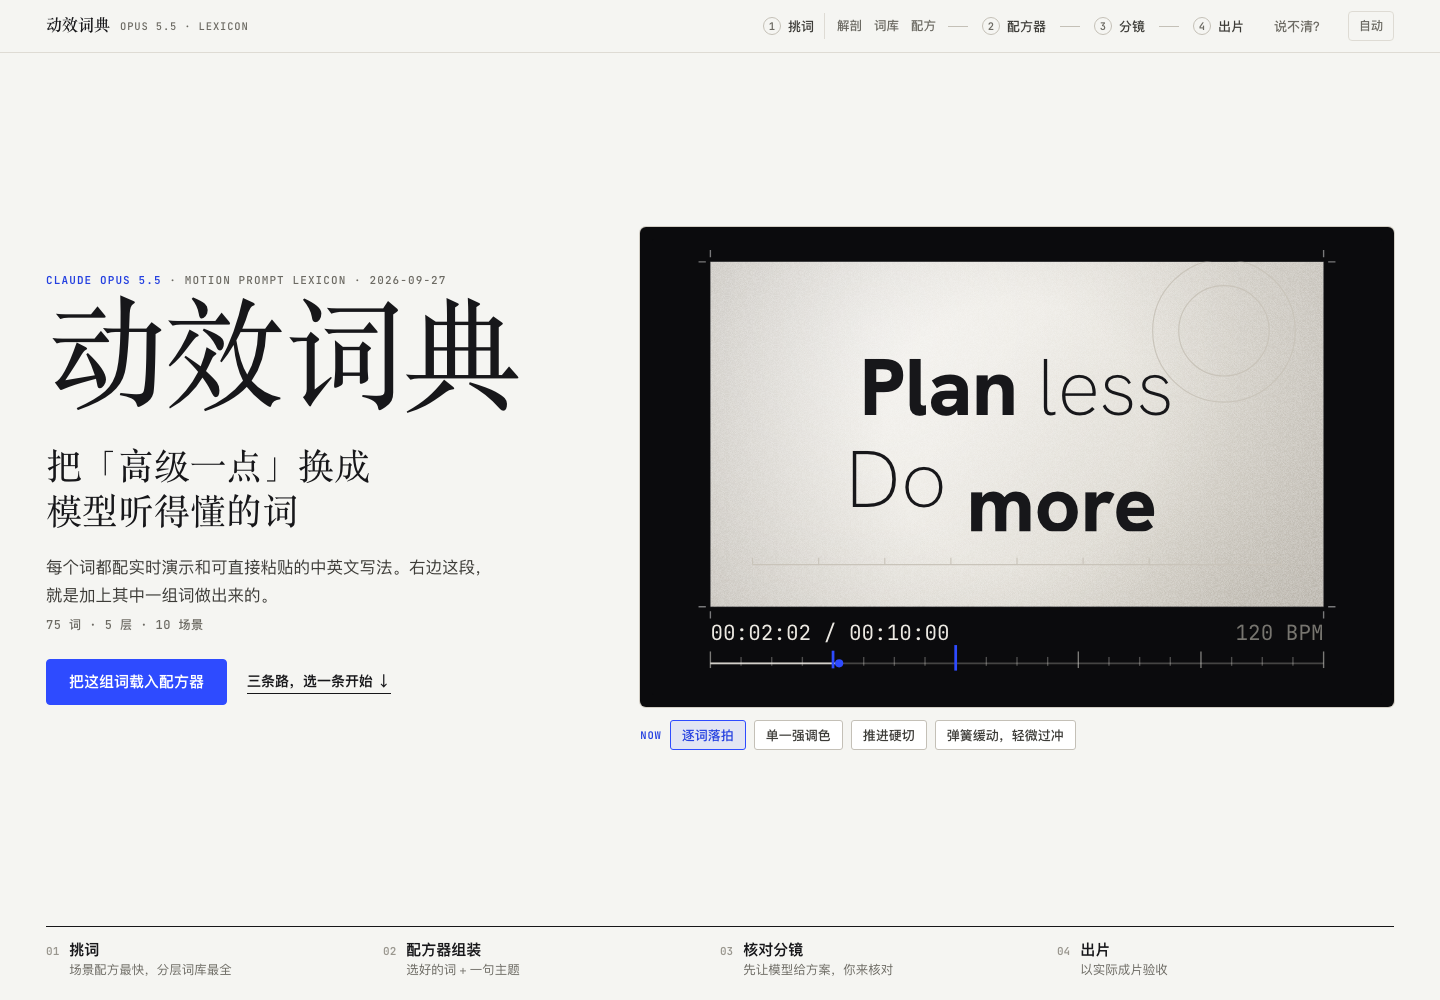
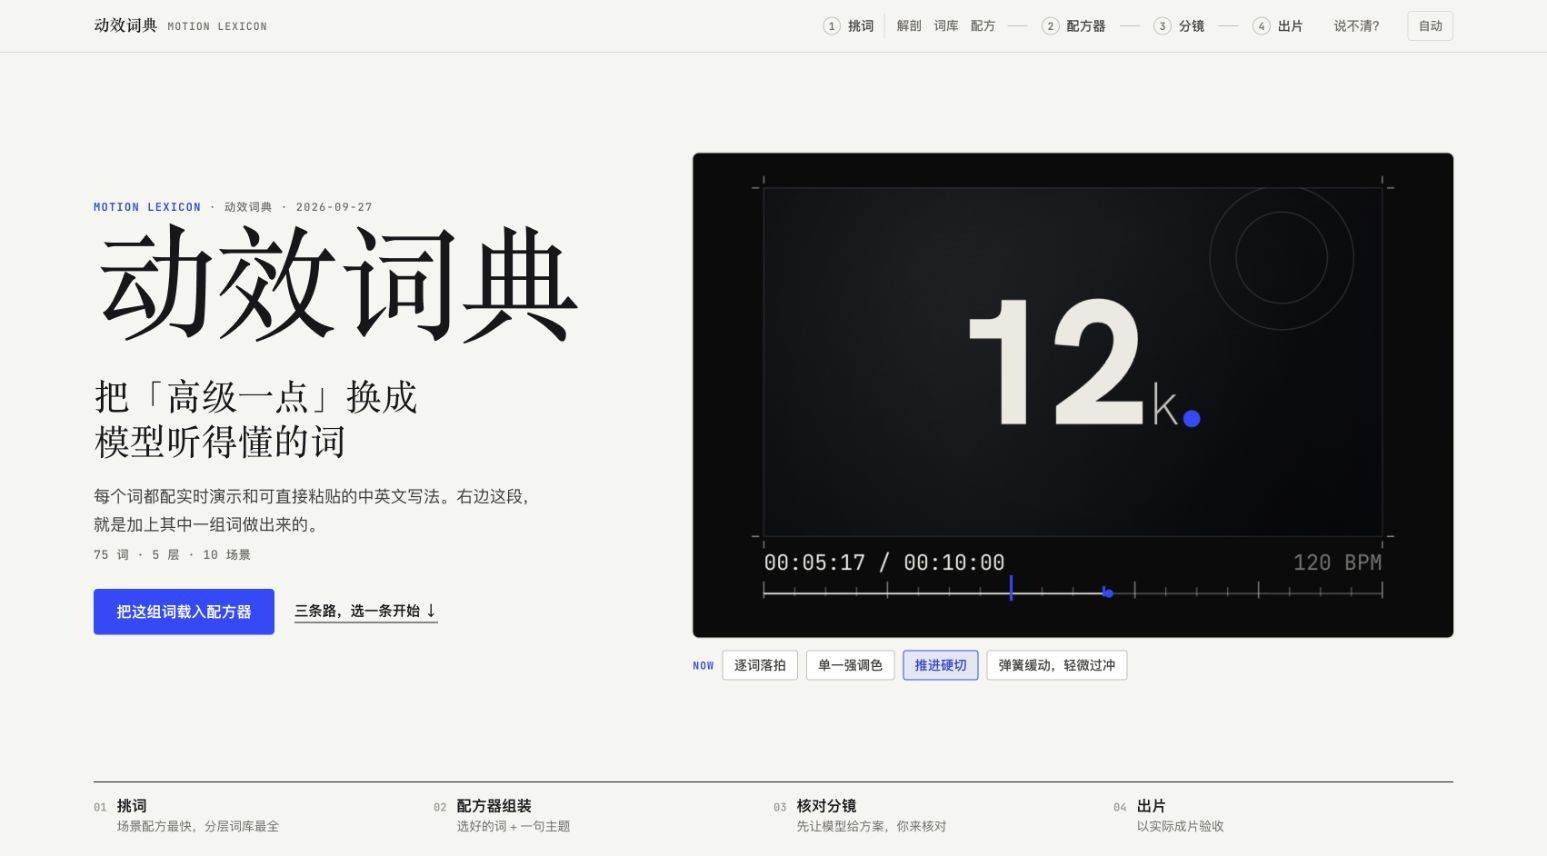
Rename Motion Lexicon and publish both video previews

diff --git a/index.html b/index.html
@@ -3,7 +3,7 @@
 <head>
 <meta charset="utf-8">
 <meta name="viewport" content="width=device-width, initial-scale=1, viewport-fit=cover">
-<title>Opus 5.5 动效词典</title>
+<title>动效词典</title>
 <meta name="description" content="75 个实时动效词、10 套场景配方，选词与内容组装成中英文提示词。">
 <style>body{margin:0}</style>
 </head>
@@ -649,7 +649,7 @@ body.has-tray .foot{padding-bottom:120px}
 <a class="skip" href="#library">跳到词库</a>
 <nav class="nav" aria-label="主导航">
   <div class="wrap nav-in">
-    <a class="brand" href="#top">动效词典 <small>OPUS 5.5 · LEXICON</small></a>
+    <a class="brand" href="#top">动效词典 <small>MOTION LEXICON</small></a>
     <ol class="rail" id="rail" aria-label="从挑词到出片">
       <li data-st="1"><a href="#paths"><i>1</i>挑词</a><span class="sub"><a href="#anatomy" data-sec="anatomy">解剖</a><a href="#library" data-sec="library">词库</a><a href="#recipes" data-sec="recipes">配方</a></span></li>
       <li data-st="2"><a href="#composer"><i>2</i>配方器<b id="navN" aria-label="已选词数"></b></a></li>
@@ -665,7 +665,7 @@ body.has-tray .foot{padding-bottom:120px}
 <header class="wrap hero lh" id="top">
   <div class="lh-body">
     <div class="lh-l">
-      <p class="kicker"><b>Claude Opus 5.5</b> · Motion Prompt Lexicon · <span data-asof></span></p>
+      <p class="kicker"><b>Motion Lexicon</b> · 动效词典 · <span data-asof></span></p>
       <h1>动效词典</h1>
       <p class="lh-say">把「高级一点」换成<br>模型听得懂的词</p>
       <p class="lh-sub">每个词都配实时演示和可直接粘贴的中英文写法。右边这段，就是加上其中一组词做出来的。<span id="stats"></span></p>
@@ -825,7 +825,7 @@ body.has-tray .foot{padding-bottom:120px}
     </div>
     <div>
       <p><a data-gallery target="_blank" rel="noopener">动效片库：看完整成片提示词 ↗</a> · <a href="docs/usage.md" target="_blank" rel="noopener">配方器使用说明书 ↗</a></p>
-      <p class="mono" style="font-size:12px">数据截至 <span data-asof></span> · Claude Opus 5.5</p>
+      <p class="mono" style="font-size:12px">来源：Claude Opus 5.5 动效案例 · 数据截至 <span data-asof></span></p>
     </div>
   </div>
 </footer>

diff --git a/src/lexicon/shell/index.html b/src/lexicon/shell/index.html
@@ -639,7 +639,7 @@ body.has-tray .foot{padding-bottom:120px}
 <a class="skip" href="#library">跳到词库</a>
 <nav class="nav" aria-label="主导航">
   <div class="wrap nav-in">
-    <a class="brand" href="#top">动效词典 <small>OPUS 5.5 · LEXICON</small></a>
+    <a class="brand" href="#top">动效词典 <small>MOTION LEXICON</small></a>
     <ol class="rail" id="rail" aria-label="从挑词到出片">
       <li data-st="1"><a href="#paths"><i>1</i>挑词</a><span class="sub"><a href="#anatomy" data-sec="anatomy">解剖</a><a href="#library" data-sec="library">词库</a><a href="#recipes" data-sec="recipes">配方</a></span></li>
       <li data-st="2"><a href="#composer"><i>2</i>配方器<b id="navN" aria-label="已选词数"></b></a></li>
@@ -655,7 +655,7 @@ body.has-tray .foot{padding-bottom:120px}
 <header class="wrap hero lh" id="top">
   <div class="lh-body">
     <div class="lh-l">
-      <p class="kicker"><b>Claude Opus 5.5</b> · Motion Prompt Lexicon · <span data-asof></span></p>
+      <p class="kicker"><b>Motion Lexicon</b> · 动效词典 · <span data-asof></span></p>
       <h1>动效词典</h1>
       <p class="lh-say">把「高级一点」换成<br>模型听得懂的词</p>
       <p class="lh-sub">每个词都配实时演示和可直接粘贴的中英文写法。右边这段，就是加上其中一组词做出来的。<span id="stats"></span></p>
@@ -815,7 +815,7 @@ body.has-tray .foot{padding-bottom:120px}
     </div>
     <div>
       <p><a data-gallery target="_blank" rel="noopener">动效片库：看完整成片提示词 ↗</a> · <a href="docs/usage.md" target="_blank" rel="noopener">配方器使用说明书 ↗</a></p>
-      <p class="mono" style="font-size:12px">数据截至 <span data-asof></span> · Claude Opus 5.5</p>
+      <p class="mono" style="font-size:12px">来源：Claude Opus 5.5 动效案例 · 数据截至 <span data-asof></span></p>
     </div>
   </div>
 </footer>

diff --git a/scripts/build.py b/scripts/build.py
@@ -87,7 +87,7 @@ def main():
     for placeholder, value in replacements.items():
         assert page.count(placeholder) == 1, f"Expected one placeholder: {placeholder}"
         page = page.replace(placeholder, value, 1)
-    (ROOT / "index.html").write_text(standalone(page, "Opus 5.5 动效词典", "75 个实时动效词、10 套场景配方，选词与内容组装成中英文提示词。"), encoding="utf-8")
+    (ROOT / "index.html").write_text(standalone(page, "动效词典", "75 个实时动效词、10 套场景配方，选词与内容组装成中英文提示词。"), encoding="utf-8")
     gallery = (GALLERY / "index.html").read_text(encoding="utf-8")
     assert gallery.count("__CATALOG__") == 1
     gallery = gallery.replace("__CATALOG__", inline_json(catalog))

diff --git a/scripts/generate_lexicon.py b/scripts/generate_lexicon.py
@@ -1,5 +1,5 @@
 #!/usr/bin/env python3
-"""Opus 5.5 动效词典 — 分层关键词体系（从 22 条已收录提示词提炼，去掉具体内容）。
+"""动效词典 — 分层关键词体系（从 22 条已收录提示词提炼，去掉具体内容）。
 输出 data/lexicon.json。每个关键词：
  id, layer, group, level, zh(名称), en(可直接粘贴的英文写法), zh_phrase(中文写法),
  what(它是什么/为什么有效), see(演示要展示什么 —— 同时是给演示构建者的规格),

diff --git a/README.md b/README.md
@@ -1,24 +1,30 @@
-# Opus 5.5 动效词典
+# 动效词典
 
-**把“高级一点”“流畅一点”，变成 AI 能执行的动效描述。**
+**看懂效果，找到说法，组合成提示词。**
 
 75 个动效关键词，每个都有实时演示；10 套场景配方，把词组合成可观察的效果。选好词，填入你的内容，再用配方器组装中英文提示词，交给 Claude 或其他支持代码动效的 AI 工具制作。
 
 ## 视频预览
 
-> **视频展示位已预留。** 后续在这里放项目介绍或完整操作录屏。
+### 完整介绍 · 76 秒
 
-<!-- VIDEO_PREVIEW_START
-将 GitHub 上传视频生成的 user-attachments 链接单独放在这里，可参考之前图鉴的 README。
-录屏建议：首屏效果 → A/B 对比 → 载入场景配方 → 填主题 → 复制提示词。
-视频封面与文件位置见 docs/media/README.md。
-VIDEO_PREVIEW_END -->
+从「动效该怎么描述」开始，了解滚动解剖、分层词库、场景配方和提示词配方器。
+
+https://github.com/user-attachments/assets/816429ee-01e4-4850-bee6-7c849bb97648
+
+### 快速预览 · 60 秒
+
+快速浏览四步流程、词条演示与提示词组装。
+
+https://github.com/user-attachments/assets/5809f1a7-8406-4f80-a070-2149b7f689d9
+
+两段视频均保留原配乐。点击播放器开始观看，需要声音时开启播放器的声音。
 
 ![动效词典首页](docs/preview.png)
 
 ## 怎么用
 
-1. **打开词典：**点击 [下载完整 ZIP](https://github.com/jinhanbuilds/opus-5-5-motion-lexicon/archive/refs/heads/main.zip)，解压后用 Chrome 打开根目录的 `index.html`。
+1. **打开词典：**点击 [下载完整 ZIP](https://github.com/jinhanbuilds/motion-lexicon/archive/refs/heads/main.zip)，解压后用 Chrome 打开根目录的 `index.html`。
 2. **挑一条路：**第一次来可看「滚动解剖」；想自己挑词就进「分层词库」；想快速开始就选「场景配方」。三条路都通向同一个配方器。
 3. **填真实内容：**选择视频或网页，写清要介绍的产品、要解释的知识、已有素材和限制；按需要增删预设词。
 4. **复制提示词：**选择 EN 或中文，交给 AI。先检查它给出的分镜或页面方案，再让它写代码，最后实际播放、检查和导出。

diff --git a/docs/media/README.md b/docs/media/README.md
@@ -1,18 +1,14 @@
-# 视频与封面位置
+# 项目视频
 
-主 README 的「视频预览」位于项目介绍之后、静态截图之前。先用当前页面截图介绍项目，录屏完成后在 `VIDEO_PREVIEW_START` 与 `VIDEO_PREVIEW_END` 之间放视频链接。
+两段视频已上传为 GitHub 附件，在[主 README](../../README.md#视频预览)中直接播放。
 
-建议录制 45–60 秒：首屏与流程舞台 → 词条 A/B 对比 → 载入一套场景配方 → 填入主题 → 复制提示词。
+| 视频 | 时长 | 在线观看 |
+| --- | --- | --- |
+| 完整介绍 | 76 秒 | [打开视频](https://github.com/user-attachments/assets/816429ee-01e4-4850-bee6-7c849bb97648) |
+| 快速预览 | 60 秒 | [打开视频](https://github.com/user-attachments/assets/5809f1a7-8406-4f80-a070-2149b7f689d9) |
 
-## 文件约定
+两段均保留用户提供的原视频：1920 × 1080、60fps、H.264 视频与 AAC 配乐，上传时没有重新编码。
 
-| 文件 | 用途 |
-| --- | --- |
-| `preview.mp4` | 项目介绍或操作录屏，建议 MP4 / H.264 |
-| `poster.jpg` | 视频封面 |
+视频通过 GitHub 附件保存；仓库和源码 ZIP 包含页面、源码与使用文档。需要离线携带视频时，可另行下载视频原文件。
 
-以上文件名为预留约定，当前尚未加入视频或封面。
-
-GitHub README 可参照之前图鉴的做法：在 GitHub 编辑界面上传录屏，把生成的 `https://github.com/user-attachments/assets/...` 链接单独放在「视频预览」下。上传完后用未登录页面检查能否播放。
-
-需要把视频随本地资料包一起交付时，把文件放在本目录，再运行 `python3 scripts/package.py`。大视频可以作为 GitHub Release 附件保存，README 链接到附件。
+后续替换视频时，先上传新文件，再更新主 README 与本页的对应链接。README 中每个视频链接单独成段，便于显示为播放器。
